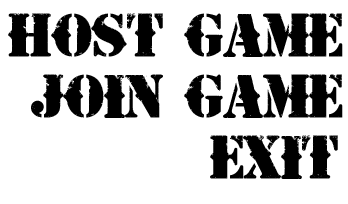
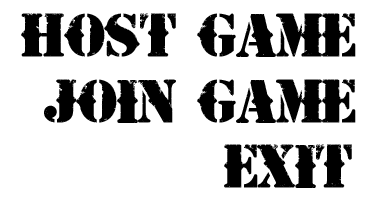
Fungerande huvudmeny

diff --git a/src/client/MenuState.java b/src/client/MenuState.java
@@ -7,120 +7,116 @@ import org.newdawn.slick.Input;
 import org.newdawn.slick.SlickException;
 import org.newdawn.slick.state.BasicGameState;
 import org.newdawn.slick.state.StateBasedGame;
- 
-public class MenuState extends BasicGameState {
-	  
-    int stateID = -1;
-  
-    Image background = null;
-    Image hostGameOption = null;
-    Image joinGameOption = null;
-    Image exitOption = null;
-  
-    private static int menuX = 200;
-    private static int menuY = 250;
-  
-    float hostGameScale = 1;
-    float joinGameScale = 1;
-    float exitScale = 1;
-  
-    public MenuState( int stateID )
-    {
-       this.stateID = stateID;
-    }
-    
-    @Override
-    public int getID() {
-        return stateID;
-    }
-  
-    public void init(GameContainer gc, StateBasedGame sbg) throws SlickException {
-    	background = new Image("data/tankwars-bg.jpg");
-    	  
-        // Load the menu images
-        Image menuOptions = new Image("data/tankwars-menuoptions.png");
-        hostGameOption = menuOptions.getSubImage(0, 0, 377, 71);
-        joinGameOption = menuOptions.getSubImage(0, 70, 377, 60);
-        exitOption = menuOptions.getSubImage(0, 130, 377, 71);
 
-    }
-  
-    public void render(GameContainer gc, StateBasedGame sbg, Graphics g) throws SlickException {
-    	// render the background
-        background.draw(0, 0);
-  
-        // Draw menu
-        hostGameOption.draw(menuX, menuY, hostGameScale);
-        joinGameOption.draw(menuX, menuY+80, joinGameScale);
-        exitOption.draw(menuX, menuY+160, exitScale);
-    }
-    
-    float scaleStep = 0.0001f;
-  
-    public void update(GameContainer gc, StateBasedGame sbg, int delta) throws SlickException {
-    	Input input = gc.getInput();
-    	  
-        int mouseX = input.getMouseX();
-        int mouseY = input.getMouseY();
-  
-        boolean insideHostGame = false;
-        boolean insideJoinGame = false;
-        boolean insideExit = false;
-  
-        if( ( mouseX >= menuX && mouseX <= menuX + hostGameOption.getWidth()) &&
-            ( mouseY >= menuY && mouseY <= menuY + hostGameOption.getHeight()) )
-        {
-            insideHostGame = true;
-        }else if( ( mouseX >= menuX && mouseX <= menuX+ joinGameOption.getWidth()) &&
-            ( mouseY >= menuY+80 && mouseY <= menuY+80 + joinGameOption.getHeight()) )
-        {
-        	insideJoinGame = true;
-        }else if( ( mouseX >= menuX && mouseX <= menuX+ exitOption.getWidth()) &&
-            ( mouseY >= menuY+160 && mouseY <= menuY+160 + exitOption.getHeight()) )
-        {
-            insideExit = true;
-        }
-  
-        if(insideHostGame)
-        {
-            if(hostGameScale < 1.05f)
-                hostGameScale += scaleStep * delta;
-  
-            if ( input.isMouseButtonDown(Input.MOUSE_LEFT_BUTTON) ){
-                sbg.enterState(client.TWClient.HOSTGAMEPLAYSTATE);	
-            }
-        } else{
-            if(hostGameScale > 1.0f)
-                hostGameScale -= scaleStep * delta;
-  
-            if ( input.isMouseButtonDown(Input.MOUSE_LEFT_BUTTON) )
-                gc.exit();
-        }
-        
-        if(insideJoinGame)
-        {
-            if(joinGameScale < 1.05f)
-                joinGameScale += scaleStep * delta;
-  
-            if ( input.isMouseButtonDown(Input.MOUSE_LEFT_BUTTON) ){
-                sbg.enterState(client.TWClient.JOINGAMEPLAYSTATE);	
-            }
-        } else{
-            if(joinGameScale > 1.0f)
-                joinGameScale -= scaleStep * delta;
-  
-            if ( input.isMouseButtonDown(Input.MOUSE_LEFT_BUTTON) )
-                gc.exit();
-        }
-  
-        if(insideExit)
-        {
-            if(exitScale < 1.05f)
-                exitScale +=  scaleStep * delta;
-        }else{
-            if(exitScale > 1.0f)
-                exitScale -= scaleStep * delta;
-        }
-    }
-  
+public class MenuState extends BasicGameState {
+
+	int stateID = -1;
+
+	Image background = null;
+	Image hostGameOption = null;
+	Image joinGameOption = null;
+	Image exitOption = null;
+
+	private static int menuX = 200;
+	private static int menuY = 250;
+
+	float hostGameScale = 1;
+	float joinGameScale = 1;
+	float exitScale = 1;
+
+	public MenuState( int stateID )
+	{
+		this.stateID = stateID;
+	}
+
+	@Override
+	public int getID() {
+		return stateID;
+	}
+
+	public void init(GameContainer gc, StateBasedGame sbg) throws SlickException {
+		background = new Image("data/tankwars-bg.jpg");
+
+		// Load the menu images
+		Image menuOptions = new Image("data/tankwars-menuoptions.png");
+		hostGameOption = menuOptions.getSubImage(0, 0, 377, 71);
+		joinGameOption = menuOptions.getSubImage(0, 71, 377, 71);
+		exitOption = menuOptions.getSubImage(0, 142, 377, 71);
+
+	}
+
+	public void render(GameContainer gc, StateBasedGame sbg, Graphics g) throws SlickException {
+		// render the background
+		background.draw(0, 0);
+
+		// Draw menu
+		hostGameOption.draw(menuX, menuY, hostGameScale);
+		joinGameOption.draw(menuX, menuY+80, joinGameScale);
+		exitOption.draw(menuX, menuY+160, exitScale);
+	}
+
+	float scaleStep = 0.0001f;
+
+	public void update(GameContainer gc, StateBasedGame sbg, int delta) throws SlickException {
+		Input input = gc.getInput();
+
+		int mouseX = input.getMouseX();
+		int mouseY = input.getMouseY();
+
+		boolean insideHostGame = false;
+		boolean insideJoinGame = false;
+		boolean insideExit = false;
+
+		if( ( mouseX >= menuX && mouseX <= menuX + hostGameOption.getWidth()) &&
+				( mouseY >= menuY && mouseY <= menuY + hostGameOption.getHeight()) )
+		{
+			insideHostGame = true;
+		}else if( ( mouseX >= menuX && mouseX <= menuX+ joinGameOption.getWidth()) &&
+				( mouseY >= menuY+80 && mouseY <= menuY+80 + joinGameOption.getHeight()) )
+		{
+			insideJoinGame = true;
+		}else if( ( mouseX >= menuX && mouseX <= menuX+ exitOption.getWidth()) &&
+				( mouseY >= menuY+160 && mouseY <= menuY+160 + exitOption.getHeight()) )
+		{
+			insideExit = true;
+		}
+
+
+		if(insideHostGame){
+			if(hostGameScale < 1.05f)
+				hostGameScale += scaleStep * delta;
+
+			if ( input.isMouseButtonDown(Input.MOUSE_LEFT_BUTTON) ){
+				sbg.enterState(TWClient.HOSTGAMEPLAYSTATE);
+			}
+		}else{
+			if(hostGameScale > 1.0f)
+				hostGameScale -= scaleStep * delta;
+		}
+		
+		if(insideJoinGame){
+			if(joinGameScale < 1.05f)
+				joinGameScale += scaleStep * delta;
+
+			if ( input.isMouseButtonDown(Input.MOUSE_LEFT_BUTTON) ){
+				sbg.enterState(TWClient.JOINGAMEPLAYSTATE);
+			}
+		}else{
+			if(joinGameScale > 1.0f)
+				joinGameScale -= scaleStep * delta;
+		}
+
+		if(insideExit)
+		{
+			if(exitScale < 1.05f)
+				exitScale +=  scaleStep * delta;
+			if ( input.isMouseButtonDown(Input.MOUSE_LEFT_BUTTON) )
+				gc.exit();
+		}else{
+			if(exitScale > 1.0f)
+				exitScale -= scaleStep * delta;
+		}
+	}
 }
+
+

diff --git a/src/client/TWClient.java b/src/client/TWClient.java
@@ -22,8 +22,8 @@ public class TWClient extends StateBasedGame {
     }
  
     public void initStatesList(GameContainer gameContainer) throws SlickException {
-        this.addState(new MenuState(MAINMENUSTATE));
-        this.addState(new PlayState(HOSTGAMEPLAYSTATE));
-        this.addState(new PlayState(JOINGAMEPLAYSTATE));
+    	this.addState(new MenuState(MAINMENUSTATE));
+    	this.addState(new PlayState(HOSTGAMEPLAYSTATE));
+    	this.addState(new PlayState(JOINGAMEPLAYSTATE));
     }
 }
